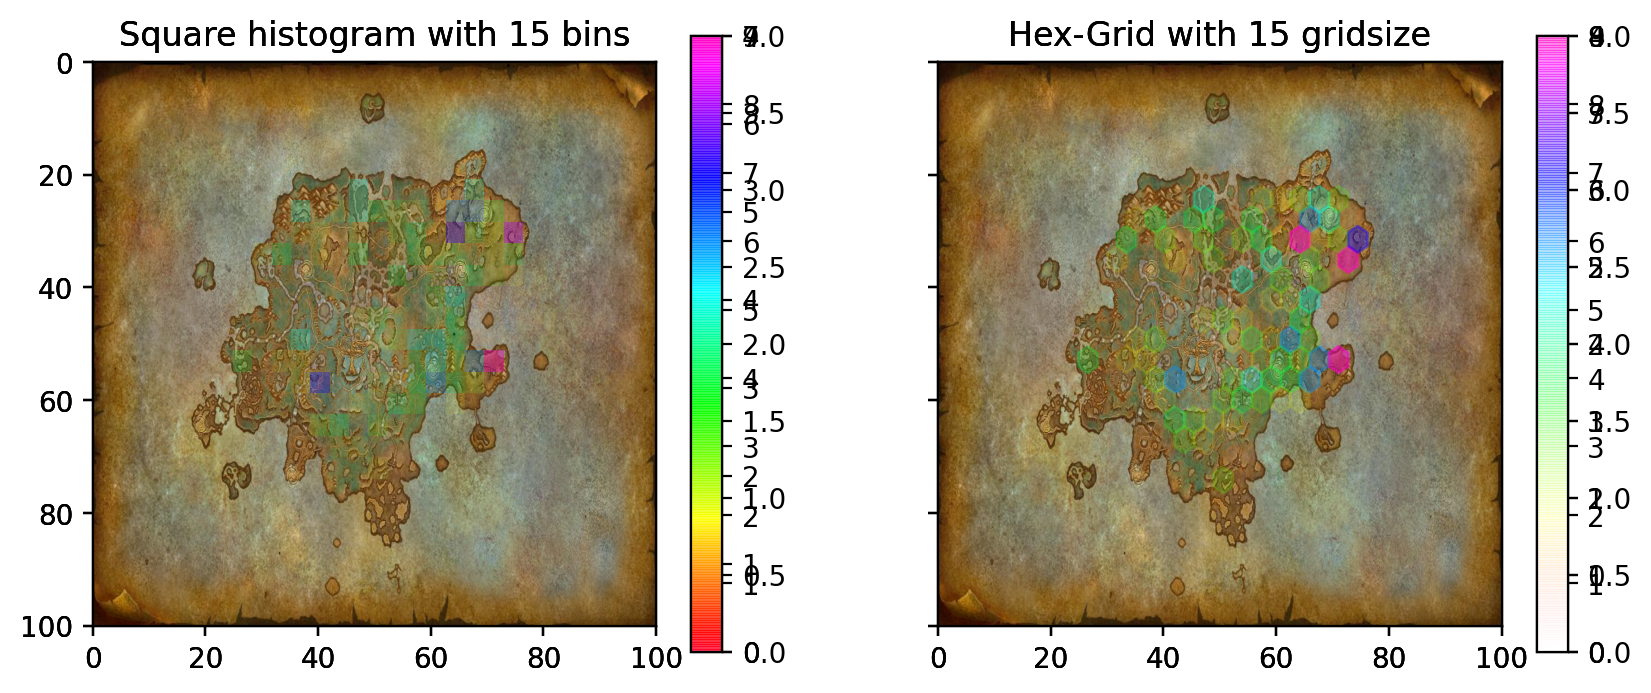
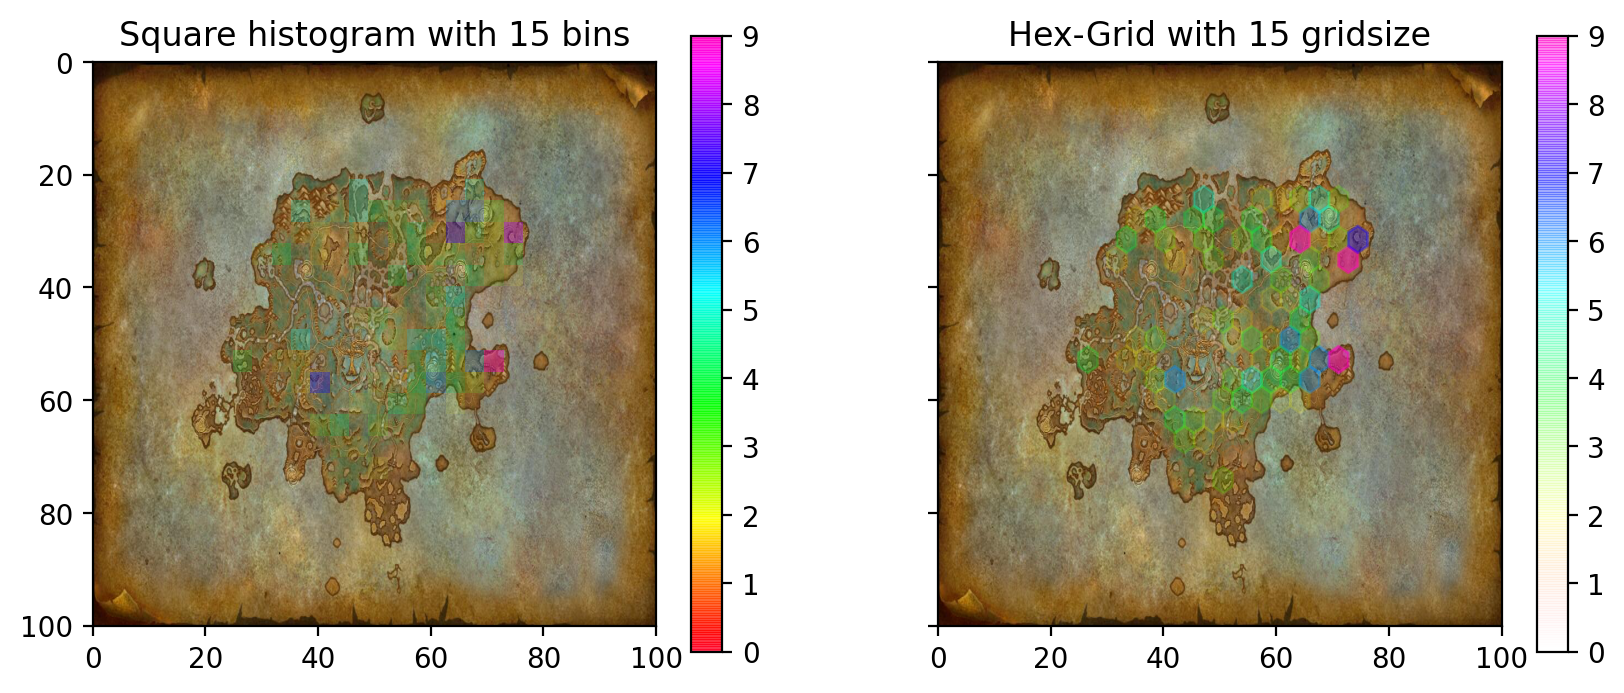
Update images to have unique axes and fix links to images

diff --git a/main.py b/main.py
@@ -68,6 +68,8 @@ def make_output_folder(folder_name: str):
 
 
 def parse_tag(tag: str):
+    # plt.clf()
+
     if tag not in ['all', 'herbs', 'mines']:
         print("ERROR: Invalid tag passed.")
         return
@@ -129,6 +131,8 @@ def parse_tag(tag: str):
         fig.canvas.set_window_title(map_db[map_uid].name)
 
         plt.savefig(os.path.join(path, f"{map_db[map_uid].name}-{tag}.png"), bbox_inches='tight', dpi=fig.dpi)
+        fig.clf()
+        plt.close(fig)
     # plt.show()
 
     # Output stats to file

diff --git a/docs/node-images/herbs.md b/docs/node-images/herbs.md
@@ -18,21 +18,21 @@ nav_order: 1
 
 ## Ardenweald
 
-![](/outputs/herbs/Ardenweald-herbs.png)
+![](/wow-node-plotting/outputs/herbs/Ardenweald-herbs.png)
 
 ## Bastion
 
-![](/outputs/herbs/Bastion-herbs.png)
+![](/wow-node-plotting/outputs/herbs/Bastion-herbs.png)
 
 ## Maldraxxus
 
-![](/outputs/herbs/Maldraxxus-herbs.png)
+![](/wow-node-plotting/outputs/herbs/Maldraxxus-herbs.png)
 
 ## Revendreth
 
-![](/outputs/herbs/Revendreth-herbs.png)
+![](/wow-node-plotting/outputs/herbs/Revendreth-herbs.png)
 
 ## The Maw
 
-![](/outputs/herbs/The Maw-herbs.png)
+![](/wow-node-plotting/outputs/herbs/The Maw-herbs.png)
 

diff --git a/docs/node-images/mines.md b/docs/node-images/mines.md
@@ -18,21 +18,21 @@ nav_order: 2
 
 ## Ardenweald
 
-![](/outputs/mines/Ardenweald-mines.png)
+![](/wow-node-plotting/outputs/mines/Ardenweald-mines.png)
 
 ## Bastion
 
-![](/outputs/mines/Bastion-mines.png)
+![](/wow-node-plotting/outputs/mines/Bastion-mines.png)
 
 ## Maldraxxus
 
-![](/outputs/mines/Maldraxxus-mines.png)
+![](/wow-node-plotting/outputs/mines/Maldraxxus-mines.png)
 
 ## Revendreth
 
-![](/outputs/mines/Revendreth-mines.png)
+![](/wow-node-plotting/outputs/mines/Revendreth-mines.png)
 
 ## The Maw
 
-![](/outputs/mines/The Maw-mines.png)
+![](/wow-node-plotting/outputs/mines/The Maw-mines.png)
 

diff --git a/docs/node-images/all.md b/docs/node-images/all.md
@@ -18,21 +18,21 @@ nav_order: 3
 
 ## Ardenweald
 
-![](/outputs/all/Ardenweald-all.png)
+![](/wow-node-plotting/outputs/all/Ardenweald-all.png)
 
 ## Bastion
 
-![](/outputs/all/Bastion-all.png)
+![](/wow-node-plotting/outputs/all/Bastion-all.png)
 
 ## Maldraxxus
 
-![](/outputs/all/Maldraxxus-all.png)
+![](/wow-node-plotting/outputs/all/Maldraxxus-all.png)
 
 ## Revendreth
 
-![](/outputs/all/Revendreth-all.png)
+![](/wow-node-plotting/outputs/all/Revendreth-all.png)
 
 ## The Maw
 
-![](/outputs/all/The Maw-all.png)
+![](/wow-node-plotting/outputs/all/The Maw-all.png)
 
